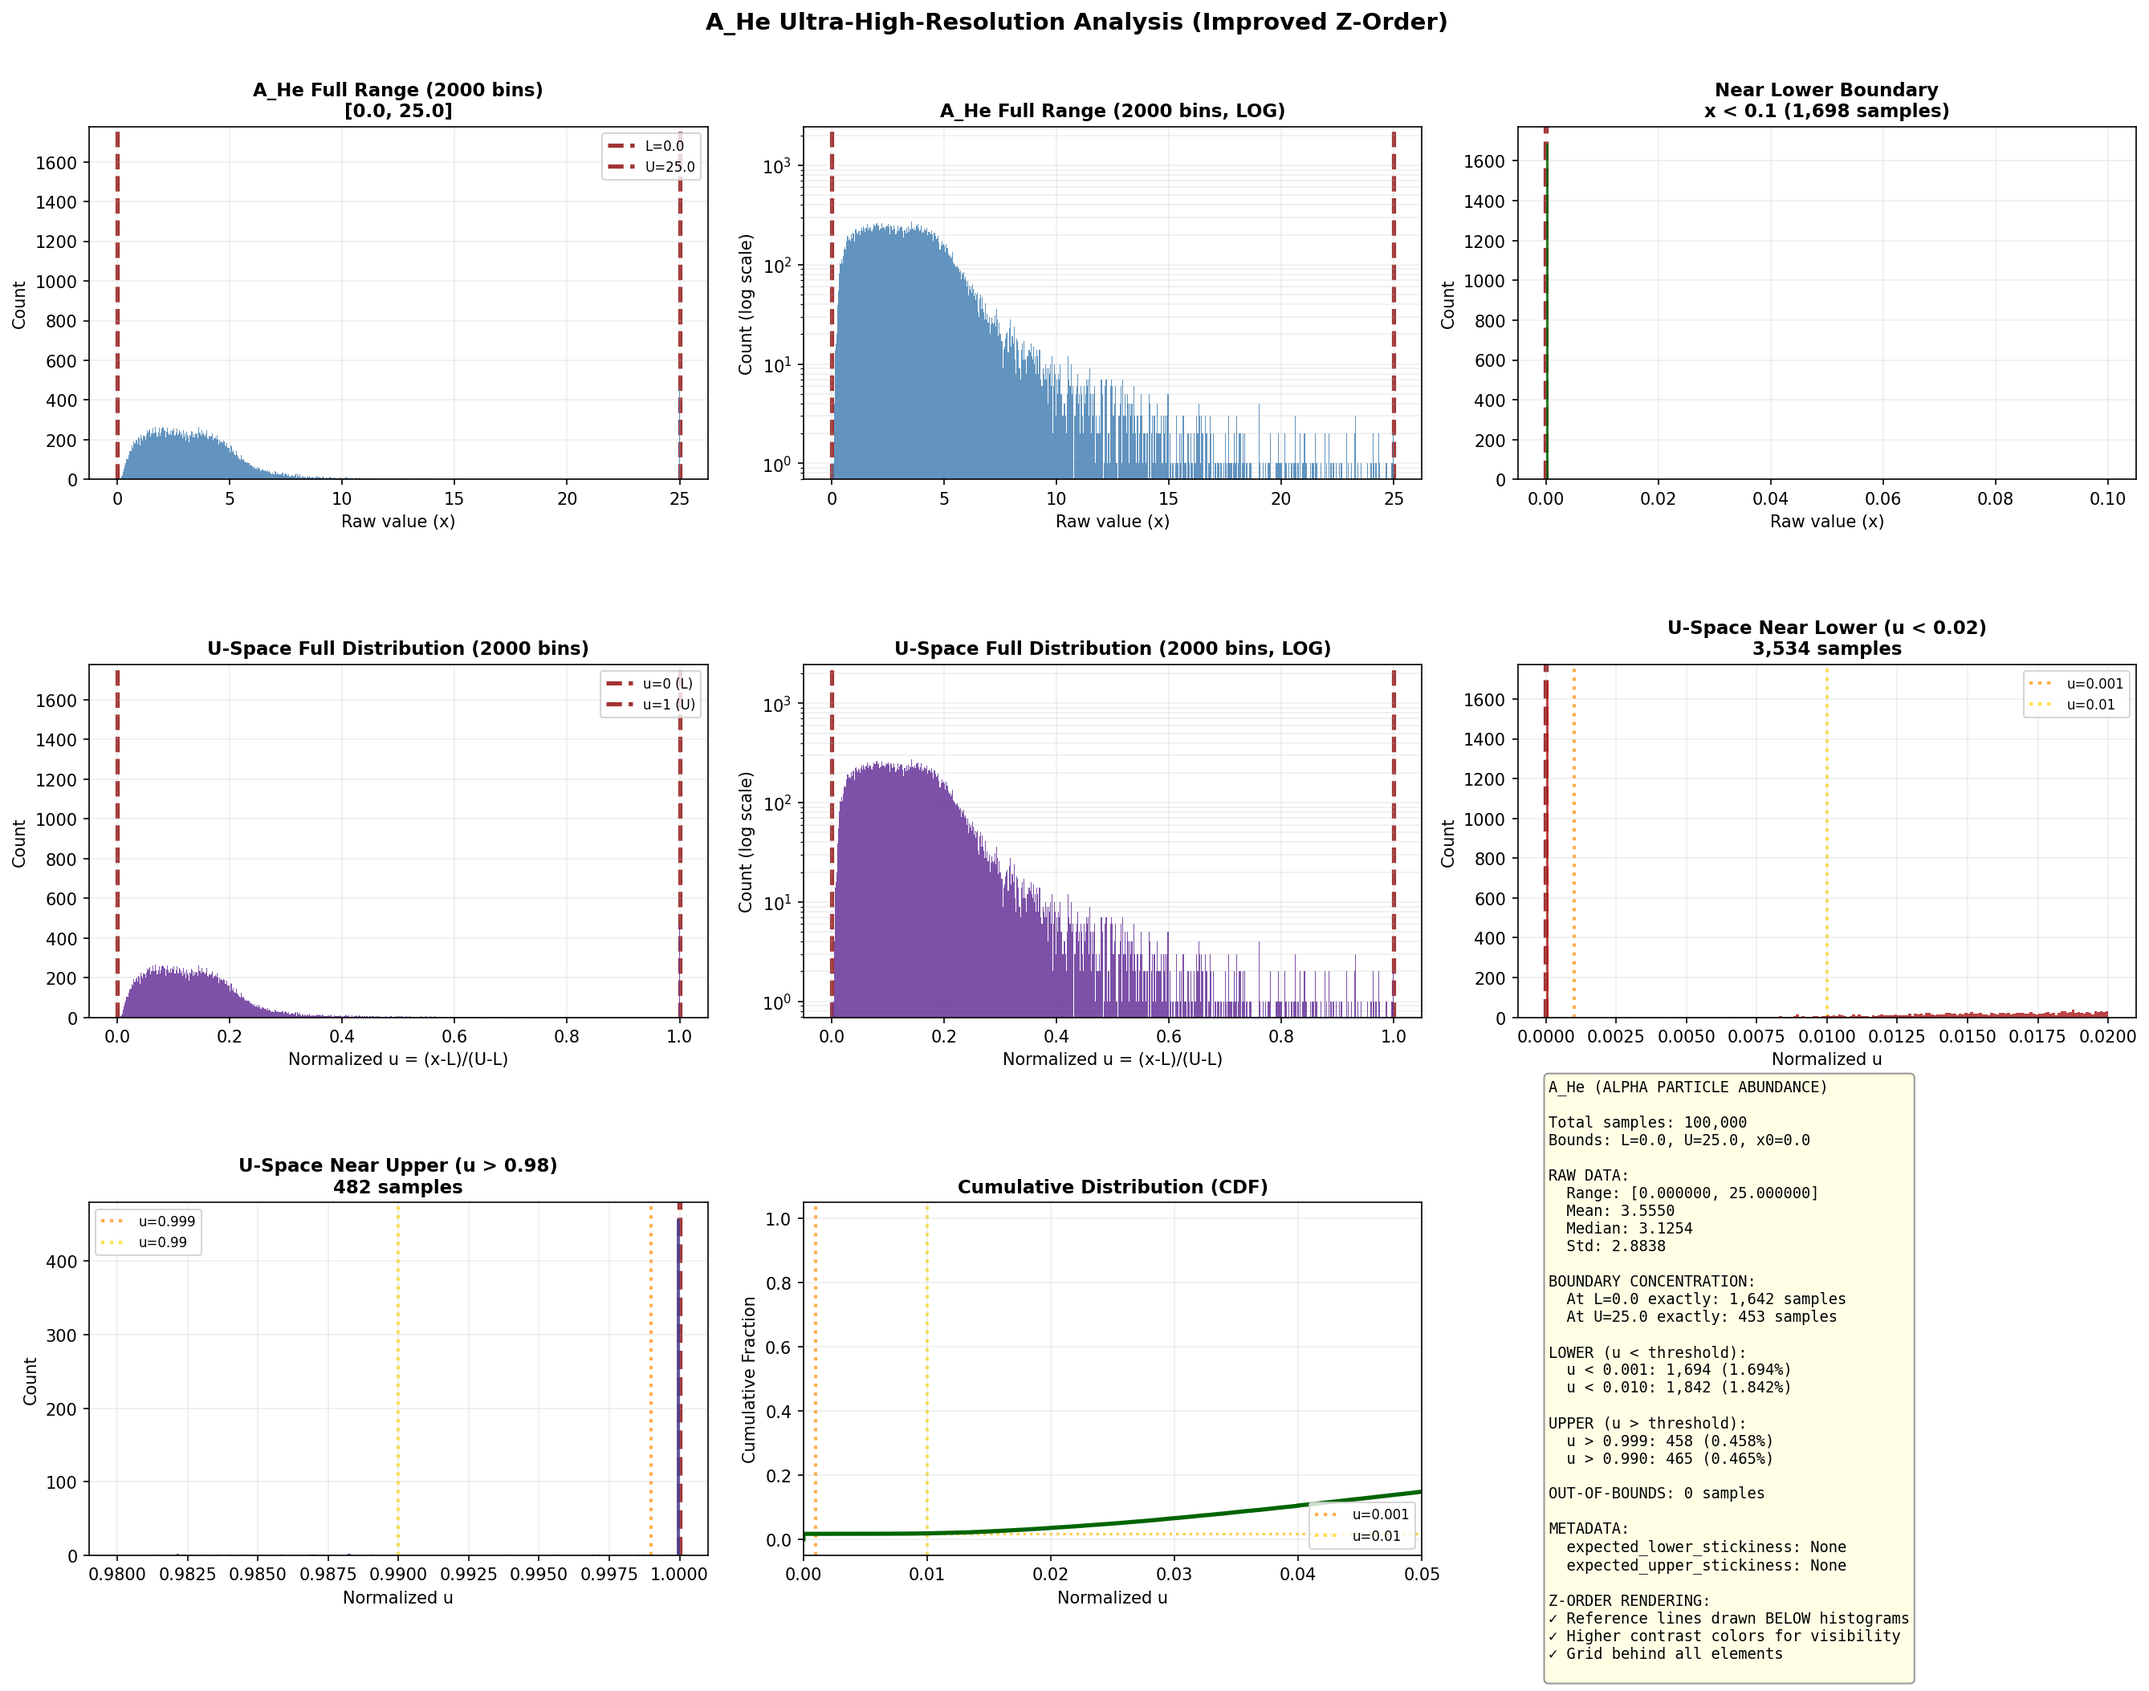
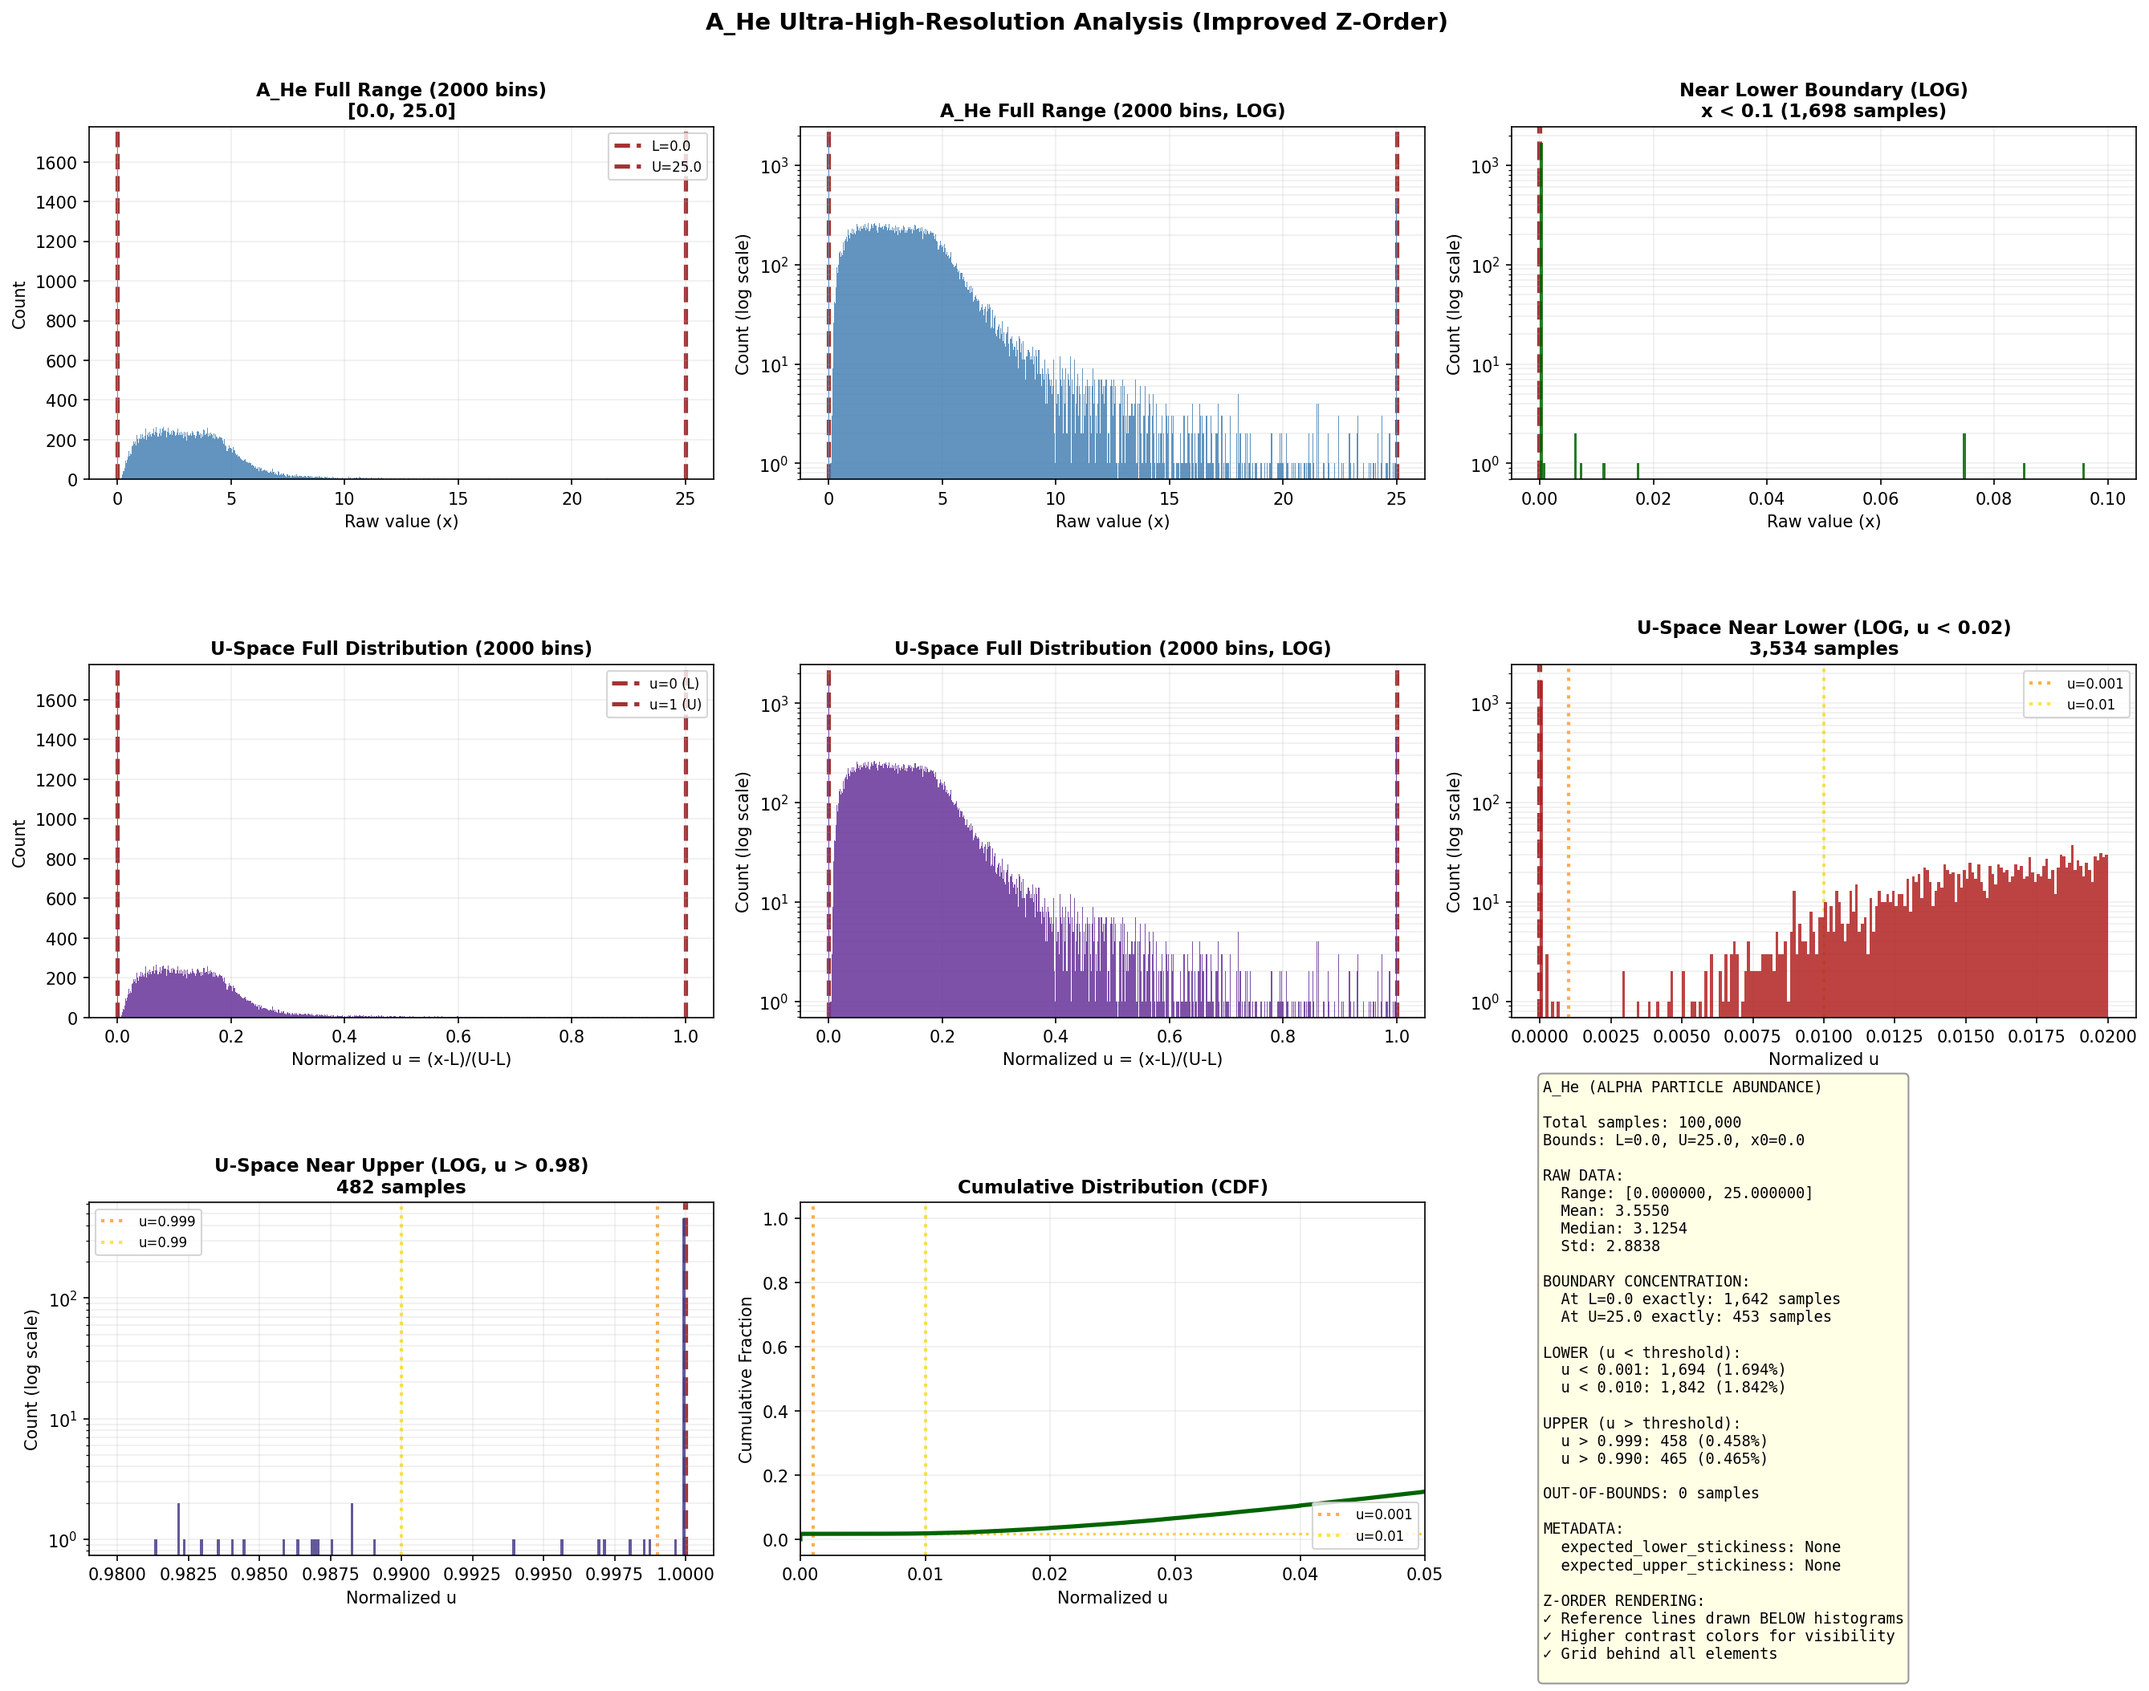
feat: add log scale to near-boundary zoom panels for better variation visibility
Updated panels 3, 6, and 7 to use logarithmic y-axis:
- Panel 3: Near Lower Boundary (x < 0.1) - now shows exponential decay pattern
- Panel 6: U-Space Near Lower (u < 0.02) - reveals detailed spike structure
- Panel 7: U-Space Near Upper (u > 0.98) - shows upper boundary variation

Why log scale matters for zoomed panels:
- Linear scale dominated by large spike at boundary (e.g., 1,642 samples at u=0)
- Nearby bins with 10-100 samples appear as flat baseline in linear scale
- Log scale reveals exponential decay pattern moving away from boundary
- Critical for understanding how stickiness detection threshold works

With log scale, scientists can now see:
- Rate of decay away from boundary
- Whether decay is smooth or has secondary peaks
- Comparison of spike magnitude vs. background distribution
- How detection threshold (t*) relates to visible structure

Regenerated figures:
- figures/A_He_improved_analysis.png (150 DPI)
- figures/A_He_improved_analysis_hires.png (300 DPI)

diff --git a/plot_A_He_improved.py b/plot_A_He_improved.py
@@ -103,10 +103,11 @@ if len(x_zoom_lower) > 0:
              edgecolor='none', alpha=0.85, zorder=2)
 
     ax3.set_xlabel('Raw value (x)', fontsize=10)
-    ax3.set_ylabel('Count', fontsize=10)
-    ax3.set_title(f'Near Lower Boundary\nx < {zoom_threshold_lower} ({len(x_zoom_lower):,} samples)',
+    ax3.set_ylabel('Count (log scale)', fontsize=10)
+    ax3.set_yscale('log')
+    ax3.set_title(f'Near Lower Boundary (LOG)\nx < {zoom_threshold_lower} ({len(x_zoom_lower):,} samples)',
                   fontsize=11, fontweight='bold')
-    ax3.grid(True, alpha=0.2, zorder=0)
+    ax3.grid(True, alpha=0.2, which='both', zorder=0)
 else:
     ax3.text(0.5, 0.5, 'No samples in range', ha='center', va='center',
              transform=ax3.transAxes)
@@ -168,11 +169,12 @@ if len(u_zoom_extreme_lower) > 0:
              color='firebrick', edgecolor='none', alpha=0.85, zorder=2)
 
     ax6.set_xlabel('Normalized u', fontsize=10)
-    ax6.set_ylabel('Count', fontsize=10)
-    ax6.set_title(f'U-Space Near Lower (u < 0.02)\n{len(u_zoom_extreme_lower):,} samples',
+    ax6.set_ylabel('Count (log scale)', fontsize=10)
+    ax6.set_yscale('log')
+    ax6.set_title(f'U-Space Near Lower (LOG, u < 0.02)\n{len(u_zoom_extreme_lower):,} samples',
                   fontsize=11, fontweight='bold')
     ax6.legend(fontsize=8, loc='upper right')
-    ax6.grid(True, alpha=0.2, zorder=0)
+    ax6.grid(True, alpha=0.2, which='both', zorder=0)
 else:
     ax6.text(0.5, 0.5, 'No samples in range', ha='center', va='center',
              transform=ax6.transAxes)
@@ -195,11 +197,12 @@ if len(u_zoom_upper) > 0:
              edgecolor='none', alpha=0.85, zorder=2)
 
     ax7.set_xlabel('Normalized u', fontsize=10)
-    ax7.set_ylabel('Count', fontsize=10)
-    ax7.set_title(f'U-Space Near Upper (u > 0.98)\n{len(u_zoom_upper):,} samples',
+    ax7.set_ylabel('Count (log scale)', fontsize=10)
+    ax7.set_yscale('log')
+    ax7.set_title(f'U-Space Near Upper (LOG, u > 0.98)\n{len(u_zoom_upper):,} samples',
                   fontsize=11, fontweight='bold')
     ax7.legend(fontsize=8, loc='upper left')
-    ax7.grid(True, alpha=0.2, zorder=0)
+    ax7.grid(True, alpha=0.2, which='both', zorder=0)
 else:
     ax7.text(0.5, 0.5, 'No samples in range', ha='center', va='center',
              transform=ax7.transAxes)
